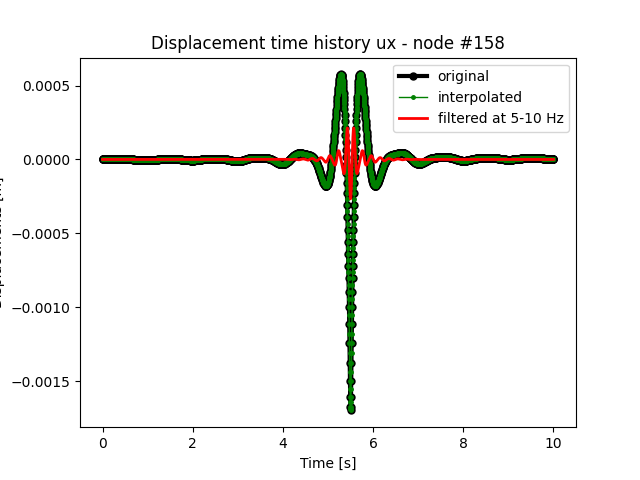
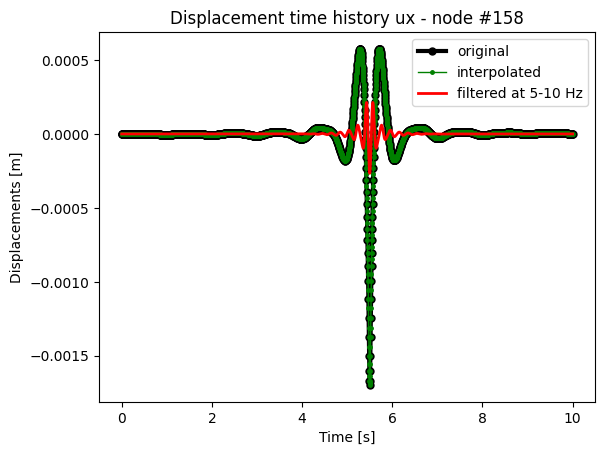
first commit

Changed region(s): [[0.0, 0.0, 0.9818, 0.9846], [0.9223, 0.8923, 0.9521, 0.9231], [0.1488, 0.0923, 0.1785, 0.1231]]

diff --git a/generate_vtu_files/Examples/hexahedron/postprocess_vtu_for_paraview/generate_vtu.py b/generate_vtu_files/Examples/hexahedron/postprocess_vtu_for_paraview/generate_vtu.py
@@ -436,7 +436,7 @@ if filter_OnOff == 1:
     print("uz_filt done")
     plt.plot( t_interpolated, ux_filt[node-1,:], '-r', linewidth=2, label='filtered at '+str(Fmin)+'-'+str(Fmax)+' Hz' )
     plt.legend()
-    plt.savefig("displacement_time_histories_ALL_"+str(Fmin)+"-"+str(Fmax)+"Hz.png")
+    plt.savefig("displacement_time_histories_ALL_"+str(Fmin)+"-"+str(Fmax)+"Hz.png", bbox_inches='tight')
 
     #plot the digital filter frequency response 
     w, h = signal.freqz(BB, AA)
@@ -449,7 +449,7 @@ if filter_OnOff == 1:
     ax.set_ylabel('Amplitude [dB]')
     ax.axis((0.1, nyquist, -200, 10))
     ax.grid(which='both', axis='both')
-    plt.savefig('filter_frequency_response_'+str(Fmin)+'-'+str(Fmax)+'Hz.png')
+    plt.savefig('filter_frequency_response_'+str(Fmin)+'-'+str(Fmax)+'Hz.png', bbox_inches='tight')
 
     # Perform Fast Fourier Transform (FFT) for the check node
     fft_result_original = np.fft.fft(ux_xr[node-1,:])
@@ -475,7 +475,7 @@ if filter_OnOff == 1:
     plt.ylabel('Amplitude')
     plt.xlim(0, 30)
     # plt.grid(True)
-    plt.savefig('FFT_ALL_'+str(Fmin)+'-'+str(Fmax)+'Hz.png')
+    plt.savefig('FFT_ALL_'+str(Fmin)+'-'+str(Fmax)+'Hz.png', bbox_inches='tight')
 
     print('#### Filter Applied #####')
 

diff --git a/generate_vtu_files/Examples/hexahedron_line/postprocess_for_paraview/generate_vtu.py b/generate_vtu_files/Examples/hexahedron_line/postprocess_for_paraview/generate_vtu.py
@@ -436,7 +436,7 @@ if filter_OnOff == 1:
     print("uz_filt done")
     plt.plot( t_interpolated, ux_filt[node-1,:], '-r', linewidth=2, label='filtered at '+str(Fmin)+'-'+str(Fmax)+' Hz' )
     plt.legend()
-    plt.savefig("displacement_time_histories_ALL_"+str(Fmin)+"-"+str(Fmax)+"Hz.png")
+    plt.savefig("displacement_time_histories_ALL_"+str(Fmin)+"-"+str(Fmax)+"Hz.png", bbox_inches='tight')
 
     #plot the digital filter frequency response 
     w, h = signal.freqz(BB, AA)
@@ -449,7 +449,7 @@ if filter_OnOff == 1:
     ax.set_ylabel('Amplitude [dB]')
     ax.axis((0.1, nyquist, -200, 10))
     ax.grid(which='both', axis='both')
-    plt.savefig('filter_frequency_response_'+str(Fmin)+'-'+str(Fmax)+'Hz.png')
+    plt.savefig('filter_frequency_response_'+str(Fmin)+'-'+str(Fmax)+'Hz.png', bbox_inches='tight')
 
     # Perform Fast Fourier Transform (FFT) for the check node
     fft_result_original = np.fft.fft(ux_xr[node-1,:])
@@ -475,7 +475,7 @@ if filter_OnOff == 1:
     plt.ylabel('Amplitude')
     plt.xlim(0, 30)
     # plt.grid(True)
-    plt.savefig('FFT_ALL_'+str(Fmin)+'-'+str(Fmax)+'Hz.png')
+    plt.savefig('FFT_ALL_'+str(Fmin)+'-'+str(Fmax)+'Hz.png', bbox_inches='tight')
 
     print('#### Filter Applied #####')
 

diff --git a/generate_vtu_files/Examples/hexahedron_quad/postprocess_for_paraview/generate_vtu.py b/generate_vtu_files/Examples/hexahedron_quad/postprocess_for_paraview/generate_vtu.py
@@ -436,7 +436,7 @@ if filter_OnOff == 1:
     print("uz_filt done")
     plt.plot( t_interpolated, ux_filt[node-1,:], '-r', linewidth=2, label='filtered at '+str(Fmin)+'-'+str(Fmax)+' Hz' )
     plt.legend()
-    plt.savefig("displacement_time_histories_ALL_"+str(Fmin)+"-"+str(Fmax)+"Hz.png")
+    plt.savefig("displacement_time_histories_ALL_"+str(Fmin)+"-"+str(Fmax)+"Hz.png", bbox_inches='tight')
 
     #plot the digital filter frequency response 
     w, h = signal.freqz(BB, AA)
@@ -449,7 +449,7 @@ if filter_OnOff == 1:
     ax.set_ylabel('Amplitude [dB]')
     ax.axis((0.1, nyquist, -200, 10))
     ax.grid(which='both', axis='both')
-    plt.savefig('filter_frequency_response_'+str(Fmin)+'-'+str(Fmax)+'Hz.png')
+    plt.savefig('filter_frequency_response_'+str(Fmin)+'-'+str(Fmax)+'Hz.png', bbox_inches='tight')
 
     # Perform Fast Fourier Transform (FFT) for the check node
     fft_result_original = np.fft.fft(ux_xr[node-1,:])
@@ -475,7 +475,7 @@ if filter_OnOff == 1:
     plt.ylabel('Amplitude')
     plt.xlim(0, 30)
     # plt.grid(True)
-    plt.savefig('FFT_ALL_'+str(Fmin)+'-'+str(Fmax)+'Hz.png')
+    plt.savefig('FFT_ALL_'+str(Fmin)+'-'+str(Fmax)+'Hz.png', bbox_inches='tight')
 
     print('#### Filter Applied #####')
 

diff --git a/generate_vtu_files/generate_vtu.py b/generate_vtu_files/generate_vtu.py
@@ -436,7 +436,7 @@ if filter_OnOff == 1:
     print("uz_filt done")
     plt.plot( t_interpolated, ux_filt[node-1,:], '-r', linewidth=2, label='filtered at '+str(Fmin)+'-'+str(Fmax)+' Hz' )
     plt.legend()
-    plt.savefig("displacement_time_histories_ALL_"+str(Fmin)+"-"+str(Fmax)+"Hz.png")
+    plt.savefig("displacement_time_histories_ALL_"+str(Fmin)+"-"+str(Fmax)+"Hz.png", bbox_inches='tight')
 
     #plot the digital filter frequency response 
     w, h = signal.freqz(BB, AA)
@@ -449,7 +449,7 @@ if filter_OnOff == 1:
     ax.set_ylabel('Amplitude [dB]')
     ax.axis((0.1, nyquist, -200, 10))
     ax.grid(which='both', axis='both')
-    plt.savefig('filter_frequency_response_'+str(Fmin)+'-'+str(Fmax)+'Hz.png')
+    plt.savefig('filter_frequency_response_'+str(Fmin)+'-'+str(Fmax)+'Hz.png', bbox_inches='tight')
 
     # Perform Fast Fourier Transform (FFT) for the check node
     fft_result_original = np.fft.fft(ux_xr[node-1,:])
@@ -475,7 +475,7 @@ if filter_OnOff == 1:
     plt.ylabel('Amplitude')
     plt.xlim(0, 30)
     # plt.grid(True)
-    plt.savefig('FFT_ALL_'+str(Fmin)+'-'+str(Fmax)+'Hz.png')
+    plt.savefig('FFT_ALL_'+str(Fmin)+'-'+str(Fmax)+'Hz.png', bbox_inches='tight')
 
     print('#### Filter Applied #####')
 
